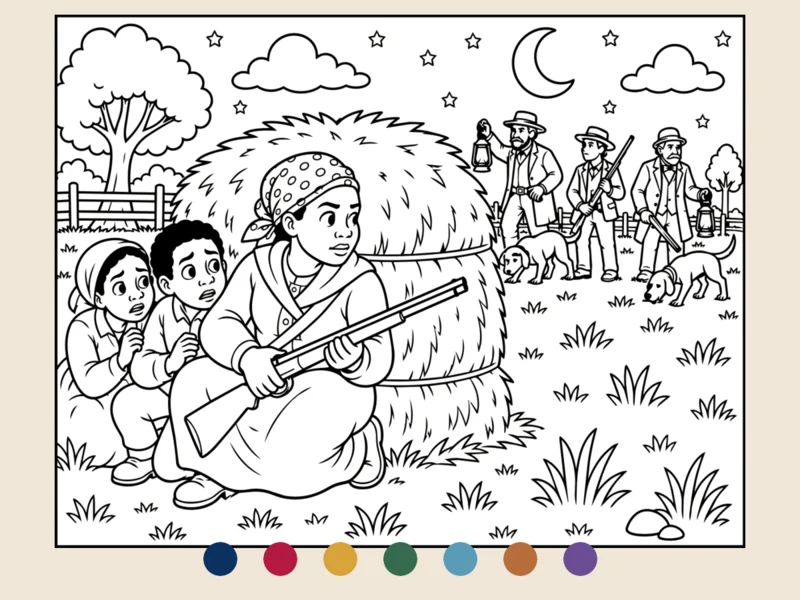
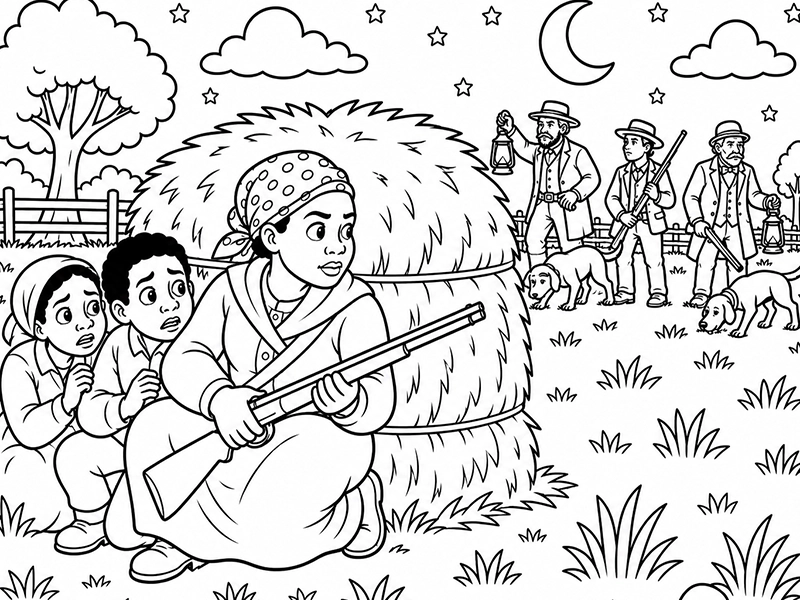
Added Athena Page

diff --git a/games/coloring-book/pages/coloring-pages-manifest.js b/games/coloring-book/pages/coloring-pages-manifest.js
@@ -24,11 +24,25 @@ window.COLORING_BOOK_FILTERS = {
     { id: "world-history", label: "World History" },
     { id: "geography", label: "Geography" },
     { id: "civics", label: "Civics" },
-    { id: "economics", label: "Economics" }
+    { id: "economics", label: "Economics" },
+    { id: "mythology", label: "Mythology" },
   ]
 };
 
 window.COLORING_BOOK_PAGES = [
+
+  {
+    id: "athena",
+    title: "Athena",
+    file: "/games/coloring-book/pages/athena.svg",
+    thumbnail: "/games/images/thumbs/coloring-book/athena.webp",
+    description: "Color a scene featuring Athena, Greek Goddess of wisdom.",
+    gradeLevels: ["6"],
+    subjects: ["world-history", "mythhology"],
+    tags: ["athena", "greek mythology", "greek goddess", "ancient greece", "goddess of wisdom", "warrior goddess", "owl", "spear", "shield", "helmet", "parthenon", "acropolis", "athens", "medusa", "greek armor", "olive tree"]
+
+  }
+
   {
     id: "harriet-tubman",
     title: "Harriet Tubman",
